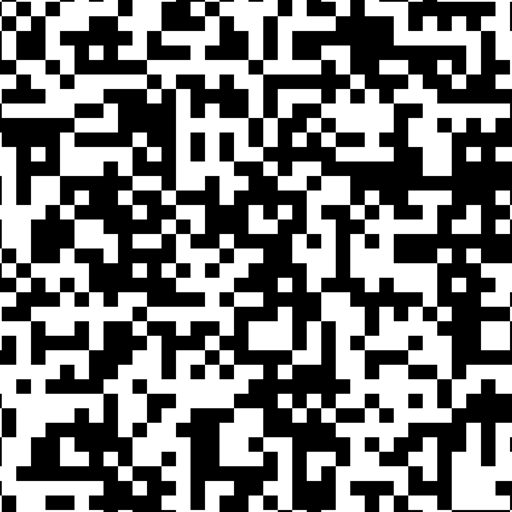
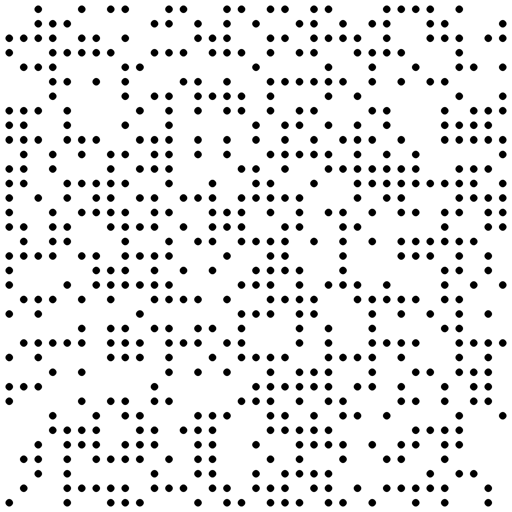
v2.2

diff --git a/lib/QRCodeArt.py b/lib/QRCodeArt.py
@@ -2,7 +2,7 @@ from enum import Enum
 import numpy as np
 from PIL import Image, ImageDraw
 import qrcode
-from lib.Tool import Vector2, inRange
+from Tool import Vector2, inRange
 import random
 
 class DrawStyle(Enum): # QRCode 的定位點樣式
@@ -115,7 +115,7 @@ class DrawData: # 計算繪製參數
 				
 				v2_draw_pos = (self.v2_qr_draw_pos + Vector2(i + 0.5, j + 0.5) * self.qr_pixel_width) # 像素點座標
 				pixel_color = img_sd_output.getpixel(v2_draw_pos.tup()) # 像素點顏色
-				pixel_color_grayscale = (pixel_color[0] * 0.299 + pixel_color[1] * 0.587 + pixel_color[2] * 0.114) / 255 # 像素點灰階值, 0黑 1白
+				pixel_color_grayscale = _getGrayscale(pixel_color) / 255 # 像素點灰階值, 0黑 1白
 				control_image_pixel_grayscale = 1 - self.qr_arr[j][i] # control net image 像素點灰階值, 0黑 1白
 				
 				pixel_num += 1 # 統計的資料點個數
@@ -146,6 +146,27 @@ class DrawData: # 計算繪製參數
 		return False
 	# 座標是否在資料區域
 
+def getTrainImageError(img: Image.Image, img_control: Image.Image) -> float:
+	pixel_width = 16
+	
+	error_count = 0
+	for i in range(32):
+		for j in range(32):
+			v2_pos = Vector2(0.5+i, 0.5+j) * pixel_width
+			image_pixel_color = _getGrayscale(img.getpixel(v2_pos.tup())) # 訓練集 image 像素點顏色灰階值
+			control_pixel_color = _getGrayscale(img_control.getpixel(v2_pos.tup())) # 訓練集 control image 像素點顏色灰階值
+			if inRange(control_pixel_color, 120, 140): continue
+			if control_pixel_color < 50:
+				if image_pixel_color >= 128: error_count += 1
+			elif control_pixel_color > 200:
+				if image_pixel_color < 128: error_count += 1
+	
+	return error_count / (32 * 32)
+
+def _getGrayscale(color: tuple) -> float:
+	return color[0] * 0.299 + color[1] * 0.587 + color[2] * 0.114
+# 計算灰階值
+
 def _getQRCodeArr(data: str, correct_level: int) -> list[list[int]]:
 	qr = qrcode.QRCode(error_correction=correct_level, box_size=1, border=1) # 設定 QRCode 參數
 	qr.add_data(data) # 放入資料
@@ -167,3 +188,7 @@ def _drawColorRect(draw: ImageDraw, pos: Vector2, radius: float, colorCode: str)
 	point2 = (pos.x + radius, pos.y + radius)
 	draw.rectangle([point1, point2], fill="#"+colorCode)
 # 繪製色點
+
+img = Image.open("img/train_image.jpg")
+img_control = Image.open("img/train_control_image.jpg")
+print(getTrainImageError(img, img_control))

diff --git a/main.py b/main.py
@@ -8,14 +8,14 @@ pipeline = StableDiffusionControlNetPipeline.from_pretrained(
 	"runwayml/stable-diffusion-v1-5", controlnet=controlnet
 ).to("cuda")
 
+control_pixel_radius = 0.5
 random_data = "".join(chr(random.randint(32, 126)) for _ in range(50)) # 隨機字串, 用於生成 QRCode
 random_data = "https://www.youtube.com/@bluenight1022"
 drawData = DrawData(random_data, qrcode.ERROR_CORRECT_M, (512, 512), 450) # 計算繪製 QRCode 的資料
-control_image = Image.new('RGBA', (512, 512), (255, 255, 255, 255)) # 灰色背景
-control_image = Image.alpha_composite(control_image, drawData.getDataLayerAndRandomBg(DrawStyle.SQUARE, 1)) # 將 QRCode 資料點加入 control image
+control_image = drawData.getDataLayerAndRandomBg(DrawStyle.CICRLE, control_pixel_radius) # 將 QRCode 資料點加入 control image
 control_image.save("control_image.png")
 
-prompt = "snow pine forest with lot of leaves"
+prompt = "snow pine forest"
 negative_prompt = "blurry, letter"
 image_num = 10 # 生成的圖片個數
 
@@ -35,5 +35,5 @@ for i in range(image_num):
 	output_image = Image.alpha_composite(output_image, drawData.getPosLayer(DrawStyle.CICRLE)) # 額外添加圓形定位點
 	output_image = Image.alpha_composite(output_image, drawData.getDataLayer(DrawStyle.CICRLE, pixel_radius, pixel_alpha)) # 額外添加資料點像素
 	
-	output_image_name = f"{shortPrompt}_#{i}_pr{pixel_radius}_pa{pixel_alpha}_pge{error[0]:.3f}_pgad{error[1]:.3f}"
+	output_image_name = f"{shortPrompt}_#{i}_cpr{control_pixel_radius}_pge{error[0]:.3f}_pgad{error[1]:.3f}"
 	output_image.save(f"output/{output_image_name}.png")
